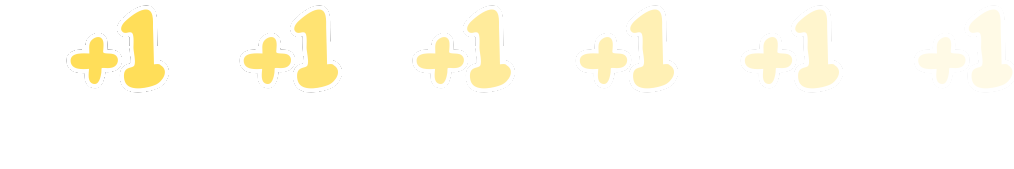
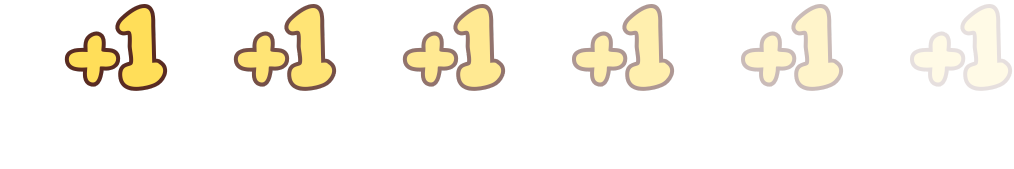
fixed camera issue, changed plus one coins

diff --git a/core/src/main/java/edu/cornell/cis3152/team8/SpinAttackPattern.java b/core/src/main/java/edu/cornell/cis3152/team8/SpinAttackPattern.java
@@ -35,6 +35,7 @@ public class SpinAttackPattern extends BossAttackPattern {
     private final OrthographicCamera camera;
     private final Vector3 origPos;
     private int intensity;
+    private float shakeWait;
 
     public SpinAttackPattern(BossController controller, float warnDuration, float moveSpeed,
         float levelWidth, float levelHeight,
@@ -51,9 +52,11 @@ public class SpinAttackPattern extends BossAttackPattern {
         this.camera = camera;
         origPos = new Vector3(camera.position);
         intensity = 5;
+        shakeWait = 0.02f;
 
-        this.warnPattern = new SpinWarnPattern(0, 0, Math.max(boss.getWidth() * GameScene.PHYSICS_UNITS,
-            boss.getHeight() * GameScene.PHYSICS_UNITS));
+        this.warnPattern = new SpinWarnPattern(0, 0,
+            Math.max(boss.getWidth() * GameScene.PHYSICS_UNITS,
+                boss.getHeight() * GameScene.PHYSICS_UNITS));
         this.warnPattern.setSpriteSheet(warnSprite);
         this.warnPattern.setAnimationSpeedWithDuration(warnDuration);
         this.boss.warnPatterns.add(warnPattern);
@@ -138,7 +141,12 @@ public class SpinAttackPattern extends BossAttackPattern {
                     }
                 }
                 case ATTACK -> {
-                    //shake();
+                    if (shakeWait <= 0) {
+                        shake();
+                        shakeWait = 0.02f;
+                    } else {
+                        shakeWait -= delta;
+                    }
                     boss.getObstacle().setAngle(boss.getObstacle().getAngle() + 9);
                     boss.setAnimationSpeed(0.15f);
                     if (atWall()) {

diff --git a/core/src/main/java/edu/cornell/cis3152/team8/GameScene.java b/core/src/main/java/edu/cornell/cis3152/team8/GameScene.java
@@ -538,7 +538,7 @@ public class GameScene implements Screen {
         float backgroundX = (state.levelWidth - backgroundWidth) / 2f;
         float backgroundY = (state.levelHeight - backgroundHeight) / 2f;
 
-        game.batch.begin();
+        game.batch.begin(worldCamera);
 
         game.batch.draw(backgroundTexture, backgroundX, backgroundY, backgroundWidth,
             backgroundHeight);
@@ -548,6 +548,20 @@ public class GameScene implements Screen {
             game.batch.draw(paddingBackgroundTexture, -paddingBackgroundTexture.getWidth(), 0);
             game.batch.draw(paddingBackgroundTexture, state.levelWidth, 0);
         }
+
+        game.batch.end();
+
+        // Draw warning sprite borders
+        game.shape.setProjectionMatrix(worldCamera.combined);
+        game.shape.begin(ShapeRenderer.ShapeType.Filled);
+
+        for (Boss b : bosses) {
+            b.drawWarningBorders(game.shape);
+        }
+
+        game.shape.end();
+
+        game.batch.begin(worldCamera);
 
         drawOrder(delta);
 
@@ -582,18 +596,7 @@ public class GameScene implements Screen {
         }
         game.batch.end();
 
-        // Draw warning sprite borders
-        game.shape.setProjectionMatrix(worldCamera.combined);
-        game.shape.begin(ShapeRenderer.ShapeType.Filled);
-
-        for (Boss b : bosses) {
-            b.drawWarningBorders(game.shape);
-        }
-
-        game.shape.end();
-
         // Draw game objects
-
         game.batch.begin(worldCamera);
 
         // Warning symbols
